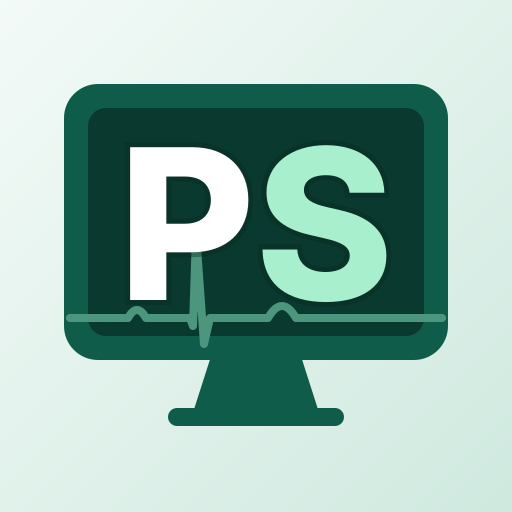
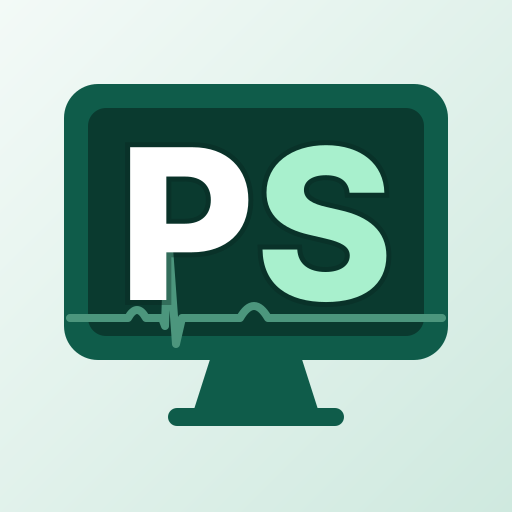
Icono: onda P más cerca del QRS
Se acorta el segmento PR del latido del icono de 44 a 16 unidades. La
T se desplaza con el complejo para mantener su distancia a la S. Se
regeneran los PNG de la web y los mipmap de Android.

Claude-Session: https://claude.ai/code/session_01R6CL9Y27hc3y3V93YZZEj1

Changed region(s): [[0.3125, 0.4688, 0.4375, 0.6875], [0.4688, 0.5938, 0.5938, 0.6562]]

diff --git a/propuestas/icono_ps_monitor.html b/propuestas/icono_ps_monitor.html
@@ -6,7 +6,7 @@
 <p class="sub">Maqueta sin aplicar. Cinco propuestas con los colores de la nueva imagen (verde de la cabecera, menta y el trazo del latido). Cada una se ve como icono cuadrado redondeado (iPhone/iPad), recortado en círculo (Android) y a tamaño pequeño de pantalla de inicio.</p>
 <div class="grid"><section class="card"><h2>A · Monitor de fondo, latido detrás de las letras</h2><div class="row"><div class="ic sq"><svg viewBox="0 0 512 512" xmlns="http://www.w3.org/2000/svg"><defs><linearGradient id="gA" x1="0" y1="0" x2="1" y2="1"><stop offset="0" stop-color="#168066"/><stop offset="1" stop-color="#0a3a2f"/></linearGradient><filter id="bA" x="-20%" y="-20%" width="140%" height="140%"><feGaussianBlur stdDeviation="6"/></filter></defs><rect width="512" height="512" fill="url(#gA)"/><rect x="64" y="84" width="384" height="276" rx="34" fill="#0a2f27" stroke="#a8f0cd" stroke-opacity=".35" stroke-width="10"/><path d="M90 112 V332" stroke="#a8f0cd" stroke-opacity=".07" stroke-width="2"/><path d="M150 112 V332" stroke="#a8f0cd" stroke-opacity=".07" stroke-width="2"/><path d="M210 112 V332" stroke="#a8f0cd" stroke-opacity=".07" stroke-width="2"/><path d="M270 112 V332" stroke="#a8f0cd" stroke-opacity=".07" stroke-width="2"/><path d="M330 112 V332" stroke="#a8f0cd" stroke-opacity=".07" stroke-width="2"/><path d="M390 112 V332" stroke="#a8f0cd" stroke-opacity=".07" stroke-width="2"/><path d="M92 138 H420" stroke="#a8f0cd" stroke-opacity=".07" stroke-width="2"/><path d="M92 186 H420" stroke="#a8f0cd" stroke-opacity=".07" stroke-width="2"/><path d="M92 234 H420" stroke="#a8f0cd" stroke-opacity=".07" stroke-width="2"/><path d="M92 282 H420" stroke="#a8f0cd" stroke-opacity=".07" stroke-width="2"/>
 <path d="M214 360 h84 l16 50 h-116z" fill="#0a2f27" stroke="#a8f0cd" stroke-opacity=".35" stroke-width="10" stroke-linejoin="round"/>
-<rect x="168" y="408" width="176" height="16" rx="8" fill="#a8f0cd" fill-opacity=".35"/><path d="M70 318 H128 q9 -16 18 0 H190 l3 8 l3 -92 l8 110 l6 -26 H268 q14 -24 28 0 H442" fill="none" stroke="#4c967d" stroke-width="9" stroke-linecap="round" stroke-linejoin="round"/><text x="256" y="312" text-anchor="middle" font-family="Inter,system-ui,-apple-system,Segoe UI,Roboto,sans-serif" font-weight="800" font-size="250" letter-spacing="-8" stroke="#06241d" stroke-opacity=".35" stroke-width="10" paint-order="stroke" ><tspan fill="#ffffff">P</tspan><tspan fill="#a8f0cd">S</tspan></text></svg></div><div class="ic ci"><svg viewBox="0 0 512 512" xmlns="http://www.w3.org/2000/svg"><defs><linearGradient id="gA" x1="0" y1="0" x2="1" y2="1"><stop offset="0" stop-color="#168066"/><stop offset="1" stop-color="#0a3a2f"/></linearGradient><filter id="bA" x="-20%" y="-20%" width="140%" height="140%"><feGaussianBlur stdDeviation="6"/></filter></defs><rect width="512" height="512" fill="url(#gA)"/><rect x="64" y="84" width="384" height="276" rx="34" fill="#0a2f27" stroke="#a8f0cd" stroke-opacity=".35" stroke-width="10"/><path d="M90 112 V332" stroke="#a8f0cd" stroke-opacity=".07" stroke-width="2"/><path d="M150 112 V332" stroke="#a8f0cd" stroke-opacity=".07" stroke-width="2"/><path d="M210 112 V332" stroke="#a8f0cd" stroke-opacity=".07" stroke-width="2"/><path d="M270 112 V332" stroke="#a8f0cd" stroke-opacity=".07" stroke-width="2"/><path d="M330 112 V332" stroke="#a8f0cd" stroke-opacity=".07" stroke-width="2"/><path d="M390 112 V332" stroke="#a8f0cd" stroke-opacity=".07" stroke-width="2"/><path d="M92 138 H420" stroke="#a8f0cd" stroke-opacity=".07" stroke-width="2"/><path d="M92 186 H420" stroke="#a8f0cd" stroke-opacity=".07" stroke-width="2"/><path d="M92 234 H420" stroke="#a8f0cd" stroke-opacity=".07" stroke-width="2"/><path d="M92 282 H420" stroke="#a8f0cd" stroke-opacity=".07" stroke-width="2"/>
+<rect x="168" y="408" width="176" height="16" rx="8" fill="#a8f0cd" fill-opacity=".35"/><path d="M70 318 H128 q9 -16 18 0 H162 l3 8 l3 -92 l8 110 l6 -26 H240 q14 -24 28 0 H442" fill="none" stroke="#4c967d" stroke-width="9" stroke-linecap="round" stroke-linejoin="round"/><text x="256" y="312" text-anchor="middle" font-family="Inter,system-ui,-apple-system,Segoe UI,Roboto,sans-serif" font-weight="800" font-size="250" letter-spacing="-8" stroke="#06241d" stroke-opacity=".35" stroke-width="10" paint-order="stroke" ><tspan fill="#ffffff">P</tspan><tspan fill="#a8f0cd">S</tspan></text></svg></div><div class="ic ci"><svg viewBox="0 0 512 512" xmlns="http://www.w3.org/2000/svg"><defs><linearGradient id="gA" x1="0" y1="0" x2="1" y2="1"><stop offset="0" stop-color="#168066"/><stop offset="1" stop-color="#0a3a2f"/></linearGradient><filter id="bA" x="-20%" y="-20%" width="140%" height="140%"><feGaussianBlur stdDeviation="6"/></filter></defs><rect width="512" height="512" fill="url(#gA)"/><rect x="64" y="84" width="384" height="276" rx="34" fill="#0a2f27" stroke="#a8f0cd" stroke-opacity=".35" stroke-width="10"/><path d="M90 112 V332" stroke="#a8f0cd" stroke-opacity=".07" stroke-width="2"/><path d="M150 112 V332" stroke="#a8f0cd" stroke-opacity=".07" stroke-width="2"/><path d="M210 112 V332" stroke="#a8f0cd" stroke-opacity=".07" stroke-width="2"/><path d="M270 112 V332" stroke="#a8f0cd" stroke-opacity=".07" stroke-width="2"/><path d="M330 112 V332" stroke="#a8f0cd" stroke-opacity=".07" stroke-width="2"/><path d="M390 112 V332" stroke="#a8f0cd" stroke-opacity=".07" stroke-width="2"/><path d="M92 138 H420" stroke="#a8f0cd" stroke-opacity=".07" stroke-width="2"/><path d="M92 186 H420" stroke="#a8f0cd" stroke-opacity=".07" stroke-width="2"/><path d="M92 234 H420" stroke="#a8f0cd" stroke-opacity=".07" stroke-width="2"/><path d="M92 282 H420" stroke="#a8f0cd" stroke-opacity=".07" stroke-width="2"/>
 <path d="M214 360 h84 l16 50 h-116z" fill="#0a2f27" stroke="#a8f0cd" stroke-opacity=".35" stroke-width="10" stroke-linejoin="round"/>
 <rect x="168" y="408" width="176" height="16" rx="8" fill="#a8f0cd" fill-opacity=".35"/><path d="M70 318 H128 q9 -16 18 0 H188 l8 12 l14 -92 l12 118 l9 -38 H262 q12 -22 24 0 H442" fill="none" stroke="#4c967d" stroke-width="9" stroke-linecap="round" stroke-linejoin="round"/><text x="256" y="312" text-anchor="middle" font-family="Inter,system-ui,-apple-system,Segoe UI,Roboto,sans-serif" font-weight="800" font-size="250" letter-spacing="-8" stroke="#06241d" stroke-opacity=".35" stroke-width="10" paint-order="stroke" ><tspan fill="#ffffff">P</tspan><tspan fill="#a8f0cd">S</tspan></text></svg></div><div class="sm"><div class="ic sq s48"><svg viewBox="0 0 512 512" xmlns="http://www.w3.org/2000/svg"><defs><linearGradient id="gA" x1="0" y1="0" x2="1" y2="1"><stop offset="0" stop-color="#168066"/><stop offset="1" stop-color="#0a3a2f"/></linearGradient><filter id="bA" x="-20%" y="-20%" width="140%" height="140%"><feGaussianBlur stdDeviation="6"/></filter></defs><rect width="512" height="512" fill="url(#gA)"/><rect x="64" y="84" width="384" height="276" rx="34" fill="#0a2f27" stroke="#a8f0cd" stroke-opacity=".35" stroke-width="10"/><path d="M90 112 V332" stroke="#a8f0cd" stroke-opacity=".07" stroke-width="2"/><path d="M150 112 V332" stroke="#a8f0cd" stroke-opacity=".07" stroke-width="2"/><path d="M210 112 V332" stroke="#a8f0cd" stroke-opacity=".07" stroke-width="2"/><path d="M270 112 V332" stroke="#a8f0cd" stroke-opacity=".07" stroke-width="2"/><path d="M330 112 V332" stroke="#a8f0cd" stroke-opacity=".07" stroke-width="2"/><path d="M390 112 V332" stroke="#a8f0cd" stroke-opacity=".07" stroke-width="2"/><path d="M92 138 H420" stroke="#a8f0cd" stroke-opacity=".07" stroke-width="2"/><path d="M92 186 H420" stroke="#a8f0cd" stroke-opacity=".07" stroke-width="2"/><path d="M92 234 H420" stroke="#a8f0cd" stroke-opacity=".07" stroke-width="2"/><path d="M92 282 H420" stroke="#a8f0cd" stroke-opacity=".07" stroke-width="2"/>
 <path d="M214 360 h84 l16 50 h-116z" fill="#0a2f27" stroke="#a8f0cd" stroke-opacity=".35" stroke-width="10" stroke-linejoin="round"/>
